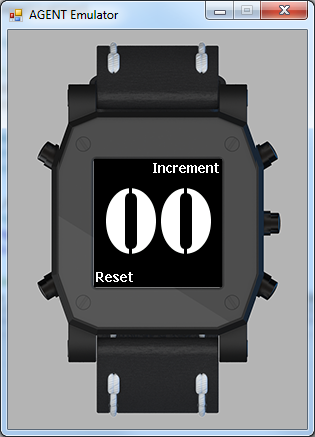
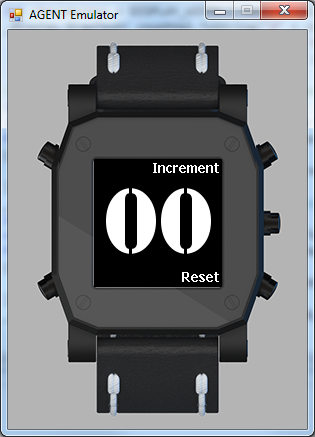
Updated App To Avoid Using VK_MENU
VK_MENU will not be available for developers going forward so I have
edited this application to avoid using it.

diff --git a/Program.cs b/Program.cs
@@ -17,7 +17,7 @@ namespace AgentWatchApplication1
 
         static Bitmap _display;
         static InterruptPort _buttonUp;
-        static InterruptPort _buttonMenu;
+        static InterruptPort _buttonDown;
 
         static int _countVal = 0;
         static string _resetLabel = "Reset";
@@ -32,11 +32,11 @@ namespace AgentWatchApplication1
 
 
             _buttonUp = new InterruptPort(HardwareProvider.HwProvider.GetButtonPins(Button.VK_UP), false, Port.ResistorMode.PullDown, Port.InterruptMode.InterruptEdgeLow);
-            _buttonMenu = new InterruptPort(HardwareProvider.HwProvider.GetButtonPins(Button.VK_MENU), false, Port.ResistorMode.PullDown, Port.InterruptMode.InterruptEdgeLow);
+            _buttonDown = new InterruptPort(HardwareProvider.HwProvider.GetButtonPins(Button.VK_DOWN), false, Port.ResistorMode.PullDown, Port.InterruptMode.InterruptEdgeLow);
 
 
             _buttonUp.OnInterrupt += incrementCount;
-            _buttonMenu.OnInterrupt += resetCount;
+            _buttonDown.OnInterrupt += resetCount;
 
 
             // go to sleep; all further code should be timer-driven or event-driven
@@ -90,12 +90,18 @@ namespace AgentWatchApplication1
                 (DISPLAY_HEIGHT - fontStencil.Height) / 2);
 
             // Draw labels for Reset and Increment buttons.
-            _display.DrawText(_resetLabel, fontNinaB, Color.White, 2, DISPLAY_HEIGHT - fontNinaB.Height - 2);
-            int increaseLabelWidth = 0;
-            char[] charArray = _incrementLabel.ToCharArray(0, _incrementLabel.Length);
-            for (int letterNo = 0; letterNo < charArray.Length; letterNo++)
+            int resetLabelWidth = 0;
+            char[] resetCharArray = _resetLabel.ToCharArray(0, _resetLabel.Length);
+            for (int letterNo = 0; letterNo < resetCharArray.Length; letterNo++)
             {
-                increaseLabelWidth += fontNinaB.CharWidth(charArray[letterNo]);
+                resetLabelWidth += fontNinaB.CharWidth(resetCharArray[letterNo]);
+            }
+            _display.DrawText(_resetLabel, fontNinaB, Color.White, DISPLAY_WIDTH - resetLabelWidth - 2, DISPLAY_HEIGHT - fontNinaB.Height - 2);
+            int increaseLabelWidth = 0;
+            char[] increaseCharArray = _incrementLabel.ToCharArray(0, _incrementLabel.Length);
+            for (int letterNo = 0; letterNo < increaseCharArray.Length; letterNo++)
+            {
+                increaseLabelWidth += fontNinaB.CharWidth(increaseCharArray[letterNo]);
             }
             _display.DrawText(_incrementLabel, fontNinaB, Color.White, DISPLAY_WIDTH - increaseLabelWidth - 2, 2);
 

diff --git a/README.md b/README.md
@@ -4,7 +4,7 @@ AgentWatchCounter
 ![Alt text](images/example1.png?raw=true "Application Example Image 1")
 ![Alt text](images/example2.png?raw=true "Application Example Image 2")
 
-This application uses the button Button.VK_UP to trigger incrementation of the displayed variable and Button.VK_MENU to reset the count.
+This application uses the button Button.VK_UP to trigger incrementation of the displayed variable and Button.VK_DOWN to reset the count.
 
 This code is made available to help developers get started building Agent Watch applications and can be re-used or re-purposed to create new projects.
 
